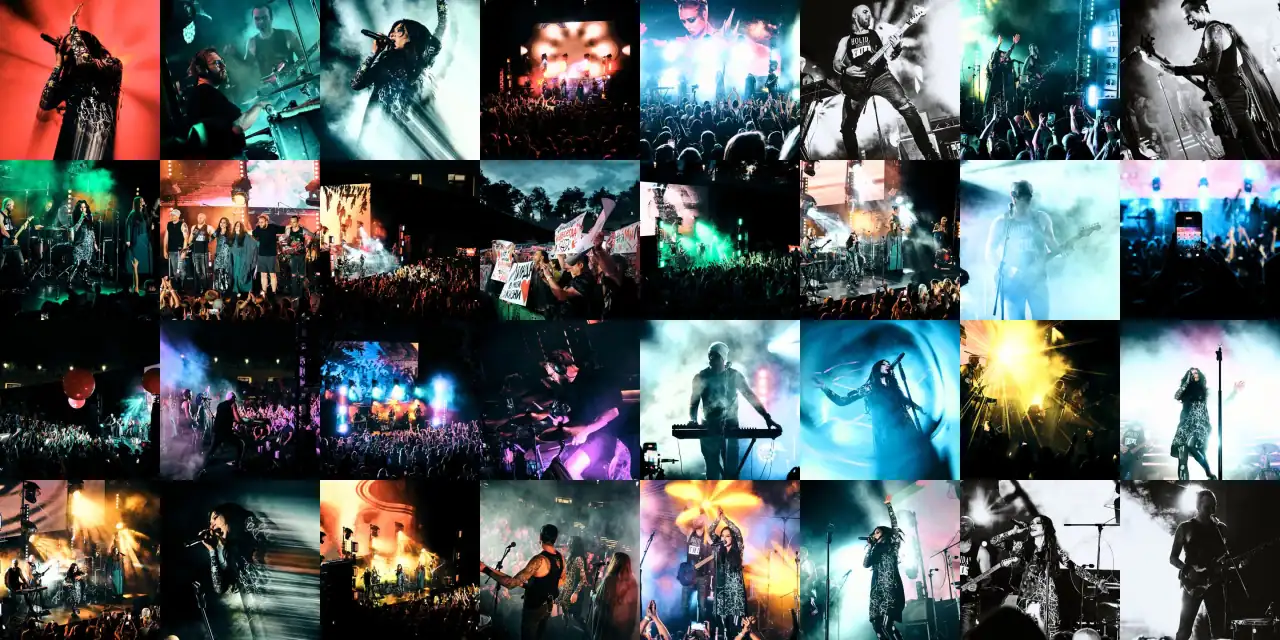
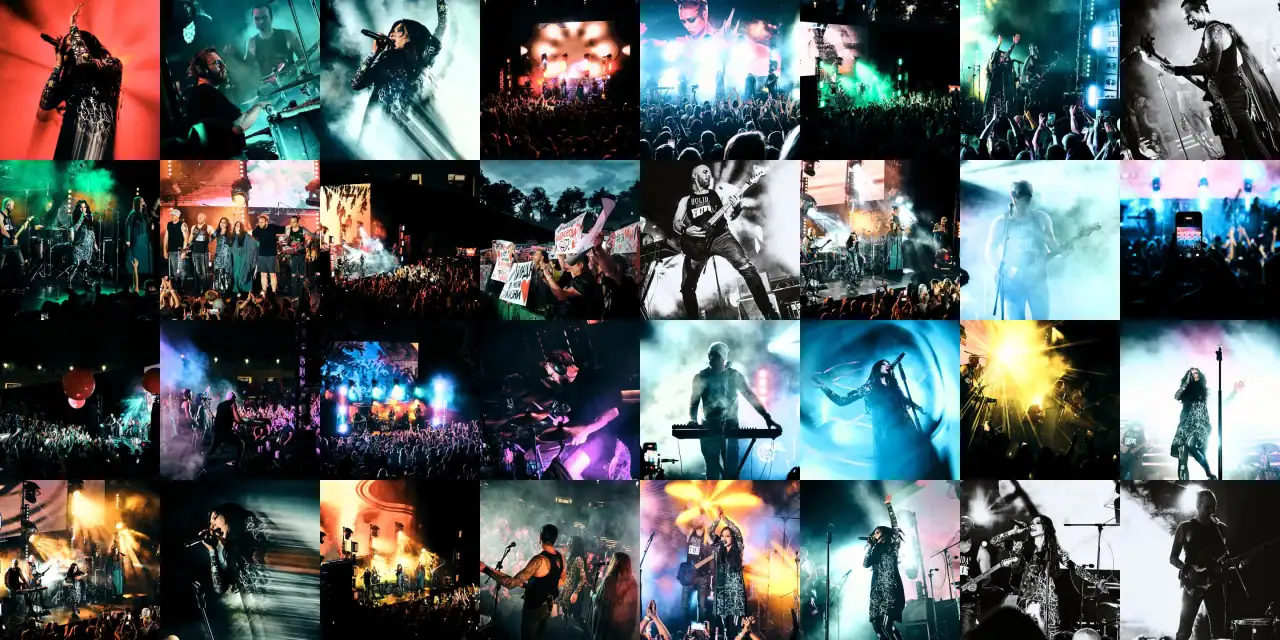
Заглавная держится до первой даты, гитарист на своё место в коллаже
Конец растворения снимка перенесён с названия месяца на первую строку
афиши, вышедшую целиком: к этому моменту внимание уже на датах. Путь вырос
со 220 до 320 px, фото на 30% пути ещё 0.70.

Гитарист в майке HOLIDAY поставлен во вторую сверху позицию справа, как и
просили изначально — я в прошлый раз неверно прочитал разметку и убрал его
из видимой на телефоне пары колонок вместо перестановки вправо. Слева от
него тёмный кадр, пятно 149 против 236 у гитариста. Похожесть соседей
осталась 230.

Changed region(s): [[0.625, 0.0, 0.75, 0.25], [0.5, 0.25, 0.625, 0.5]]

diff --git a/index.html b/index.html
@@ -107,7 +107,7 @@ a{color:inherit}
    background-attachment:fixed игнорирует. */
 .bg{position:fixed;inset:0;z-index:0;pointer-events:none;
   background-image:linear-gradient(rgba(6,8,11,var(--scrim)),rgba(6,8,11,var(--scrim))),
-                   url("assets/collage-sheet.webp?v=ec942b78");
+                   url("assets/collage-sheet.webp?v=f85f5b47");
   background-size:cover,cover;background-position:center,center;
   filter:grayscale(.55) contrast(1.05)}
 
@@ -121,7 +121,7 @@ a{color:inherit}
 
 .strip{display:none;position:fixed;inset:0;z-index:4;pointer-events:none;opacity:0;
   background-image:linear-gradient(rgba(6,8,11,var(--scrim)),rgba(6,8,11,var(--scrim))),
-                   url("assets/collage-sheet-sm.webp?v=a3cab7da");
+                   url("assets/collage-sheet-sm.webp?v=46d05c59");
   background-size:cover,cover;background-position:center,center;
   filter:grayscale(.55) contrast(1.05);
   clip-path:inset(0 0 calc(100% - var(--plate-h,64px)) 0)}
@@ -139,7 +139,7 @@ a{color:inherit}
    и стыка не видно. */
 .mon__h::before{content:"";position:absolute;inset:0;z-index:-1;
   background-image:linear-gradient(rgba(6,8,11,var(--scrim)),rgba(6,8,11,var(--scrim))),
-                   url("assets/collage-sheet.webp?v=ec942b78");
+                   url("assets/collage-sheet.webp?v=f85f5b47");
   background-size:cover,cover;background-position:center,center;
   background-attachment:fixed,fixed;
   filter:grayscale(.55) contrast(1.05)}
@@ -178,7 +178,7 @@ span.row__v{border-bottom:0}
   /* на узком экране cover раздувает полотно до одной колонки кадров —
      берём лёгкий лист и мельчим до текстуры */
   .bg{background-image:linear-gradient(rgba(6,8,11,var(--scrim)),rgba(6,8,11,var(--scrim))),
-        url("assets/collage-sheet-sm.webp?v=a3cab7da")}
+        url("assets/collage-sheet-sm.webp?v=46d05c59")}
   /* На телефоне кадр дорощен снизу, поэтому под группой стало больше тёмного
      поля — знаку есть куда вырасти. Мешал ему только указатель «Афиша»,
      стоявший на одной высоте; знак занимает всю колонку набора — от поля до
@@ -522,7 +522,7 @@ span.row__v{border-bottom:0}
 (function(){
   var hero = document.querySelector('.hero'),
       word = document.querySelector('.top h1'),
-      mon  = document.querySelector('.mon__h');
+      row  = document.querySelector('.afisha .row');
   if (!hero || !word) return;
   var last = -1, from = 0, span = 1, fade = false;
 
@@ -542,12 +542,12 @@ span.row__v{border-bottom:0}
     // растворения — то есть с резаной кромкой на стыке с коллажем.
     fade = innerWidth > 820;
     if (!fade) { hero.style.opacity = ''; hero.style.visibility = ''; return; }
-    // Конец — не когда у месяца показалась верхушка, а когда он вышел целиком.
-    // Иначе весь путь укладывается в зазор между «Афишей» и «Августом», а он
-    // после сокращения отступов невелик: заголовок за это время проходит по
-    // экрану меньше пятой части, и фото пропадает будто при неподвижной странице.
+    // Конец пути — не месяц, а первая строка афиши, целиком вышедшая из-под
+    // нижней кромки: к этому моменту внимание уже на датах, и снимку пора уйти.
+    // Раньше конец стоял на месяце, но зазор между «Афишей» и «Августом» после
+    // сокращения отступов мал, и растворение выходило слишком ранним.
     var a = docTop(word),
-        b = mon ? docTop(mon) + mon.offsetHeight
+        b = row ? docTop(row) + row.offsetHeight
                 : a + word.getBoundingClientRect().height;
     from = a - vh;
     span = Math.max(1, b - a);

diff --git a/transitions.html b/transitions.html
@@ -107,7 +107,7 @@ a{color:inherit}
    background-attachment:fixed игнорирует. */
 .bg{position:fixed;inset:0;z-index:0;pointer-events:none;
   background-image:linear-gradient(rgba(6,8,11,var(--scrim)),rgba(6,8,11,var(--scrim))),
-                   url("assets/collage-sheet.webp?v=ec942b78");
+                   url("assets/collage-sheet.webp?v=f85f5b47");
   background-size:cover,cover;background-position:center,center;
   filter:grayscale(.55) contrast(1.05)}
 
@@ -121,7 +121,7 @@ a{color:inherit}
 
 .strip{display:none;position:fixed;inset:0;z-index:4;pointer-events:none;opacity:0;
   background-image:linear-gradient(rgba(6,8,11,var(--scrim)),rgba(6,8,11,var(--scrim))),
-                   url("assets/collage-sheet-sm.webp?v=a3cab7da");
+                   url("assets/collage-sheet-sm.webp?v=46d05c59");
   background-size:cover,cover;background-position:center,center;
   filter:grayscale(.55) contrast(1.05);
   clip-path:inset(0 0 calc(100% - var(--plate-h,64px)) 0)}
@@ -139,7 +139,7 @@ a{color:inherit}
    и стыка не видно. */
 .mon__h::before{content:"";position:absolute;inset:0;z-index:-1;
   background-image:linear-gradient(rgba(6,8,11,var(--scrim)),rgba(6,8,11,var(--scrim))),
-                   url("assets/collage-sheet.webp?v=ec942b78");
+                   url("assets/collage-sheet.webp?v=f85f5b47");
   background-size:cover,cover;background-position:center,center;
   background-attachment:fixed,fixed;
   filter:grayscale(.55) contrast(1.05)}
@@ -178,7 +178,7 @@ span.row__v{border-bottom:0}
   /* на узком экране cover раздувает полотно до одной колонки кадров —
      берём лёгкий лист и мельчим до текстуры */
   .bg{background-image:linear-gradient(rgba(6,8,11,var(--scrim)),rgba(6,8,11,var(--scrim))),
-        url("assets/collage-sheet-sm.webp?v=a3cab7da")}
+        url("assets/collage-sheet-sm.webp?v=46d05c59")}
   /* На телефоне кадр дорощен снизу, поэтому под группой стало больше тёмного
      поля — знаку есть куда вырасти. Мешал ему только указатель «Афиша»,
      стоявший на одной высоте; знак занимает всю колонку набора — от поля до
